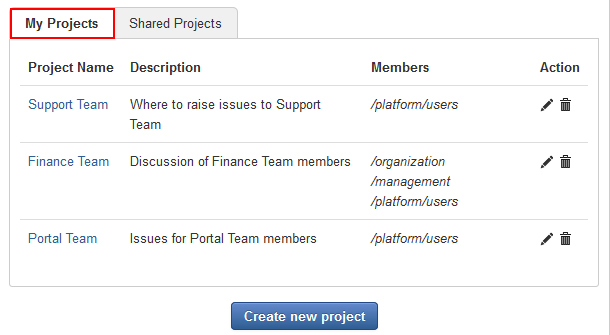
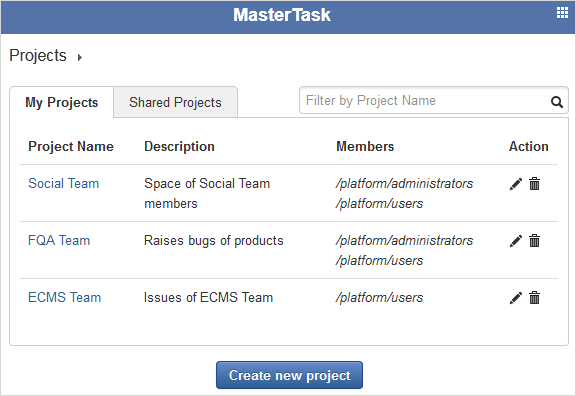
Update Readme

diff --git a/README.md b/README.md
@@ -19,7 +19,7 @@ Nguyen The Tuyen | PT
 
 # Responsive
 
-	The **MasterTask** app is based on Twitter Bootstrap to be fully responsive support.
+The **MasterTask** app is based on Twitter Bootstrap to be fully responsive support.
 
 
 # What's MasterTask?
@@ -30,7 +30,7 @@ Use this app to control projects and their relevant tasks, then share with your 
 
 # Overview of MasterTask
 
-Because of limitations to time (2 days for app development) and members (maximum 4 members) as suggested by eXo Jury, 
+Because of limitation to time (2 days for app development) and members (maximum 4 members/team) as suggested by eXo Jury, 
 our team decided to finish some main points of our app, and next will be promising features and of course a cool User Interface from BD Team. 
 See the table to know which you can play now, as well more features that will be introduced soon.
 
@@ -68,7 +68,7 @@ If you are not familiar with adding an app to a page, do as follows to access **
 
 1. Open the eXo Platform link of **4.1-M2-codefest-team_e** on Acceptance (https://acceptance.exoplatform.org/).
 
-1. Log in Intranet with the default account (username: gatein and password: gtn).
+1. Log in Intranet as admin account (for example default - username: gatein & password: gtn).
 
 1. At the top administration bar, select **Administration --> Applications**.
 
@@ -84,22 +84,24 @@ If you are not familiar with adding an app to a page, do as follows to access **
 
 1. In **Page Editor --> Applications tab**, scroll to find the name of **MasterTask** - **team-e-addon-webapp**. 
 
-1. Click **team-e-addon-webapp** to see the name of our app: **MasterTask*.
+1. Click **team-e-addon-webapp** to see the name of our app: **MasterTask**.
 
 1. Drag **MasterTask** app from Page Editor and drop it into Page Layout.
+
+	<img src="screenshots/access_mastertask.png" width="700"/>
 
 1. Click <img src="screenshots/finish_icon.png" width="20"/> to accept these changes.
 You will be redirected to the page that contains **MasterTask**. 
 In this case, it will be: http://codefest-4.1-m2-codefest-team_e.acceptance5.exoplatform.org/portal/intranet/home/page1.
 Now, you can enjoy **MasterTask**! 
 
-## Creating new project
+## Creating a new project
 
 1. Access the **MasterTask** app.
-
-A list of projects will be displayed. 
-
-If you have no project, there will be a message: *No project is available, please create one!*. 
+	<img src="screenshots/mastertask_main_screen.png" width="700"/>
+	
+	A list of projects will be displayed. 
+	If you have no project, there will be a message: *No project is available, please create one!*. 
 
 1. Click **Create new project** button at the bottom.
 
@@ -108,12 +110,11 @@ If you have no project, there will be a message: *No project is available, pleas
 1. Enter **Project name** (mandatory) and **Description** for your project.
 
 1. Share your project with a group by clicking the down-arrow icon of **Shared Groups**, then click **Add**. 
-	This means members of the shared groups can work that project in the **Shared Projects** tab.
+	This means members of the shared groups can work on that project in the **Shared Projects** tab.
 
-* Repeat this step if you want to shared with many groups.
+	* Repeat this step if you want to shared with many groups.
 	
-* Click **x** next to each group that you don't want to share anymore.
-	
+	* Click <img src="screenshots/remove_icon.png" width="15"> next to each selected group if you don't want to share with that group anymore.
 	
 1. Click **Create** button to finish.
 
@@ -123,40 +124,40 @@ To find your needed projects quickly, click either of tabs:
 
 * **My Projects**: Lists projects that are created by yourself.
 
-<img src="screenshots/my_projects.png" width="650">
+	<img src="screenshots/my_projects.png" width="650">
 	
-** Here, you can make any changes to your desires or delete your own projects.
+	* Here, you can make any changes to your desires or delete your own projects.
 	
 * **Shared Projects**: Lists projects that another shared with groups where you are member.
 
-<img src="screenshots/shared_projects.png" width="650">
+	<img src="screenshots/shared_projects.png" width="650">
 	
-Here, you can:
+	Here, you can:
 	
-** See information of shared projects, including: **Project Name**, **Description**, **Owners** and **Members**.
+	* See information of shared projects, including: **Project Name**, **Description**, **Owners** and **Members**.
 	
-** View details of shared projects, and do actions regarding to their tasks (for example, creating new, editing, or deleting, commenting).
+	* View details of shared projects, and can do actions regarding to tasks of that project (for example, creating new, editing, or deleting, commenting).
 	
-** However, you have no right to make changes or delete these shared projects.
+	* However, you have no right to make changes on information of the shared projects themselves or delete them.
 	
 ## Filtering projects
 
-After sorting your projects by either of above tabs (**My Projects**, **Shared Projects**), 
-you still find difficult to find exactly your projects because of so many. 
-In this case, you can continue filter your project from the list of selected tab as follows:
+After sorting your projects by either of above tabs (**My Projects** & **Shared Projects**), 
+you may still find difficult to find exactly your projects because of so many. 
+In this case, you can continue filter your project by name or description from the list of selected tab as follows:
 
-1. Type name into the mini filter form.
+1. Type key words into the mini filter form.
 
 	<img src="screenshots/filter_project_name.png" width="300">
 
-2. Hit **Enter** key to perform your selected filter.
+2. Hit **Enter** key or click <img src="screenshots/search_icon.png" width="15"> to perform filtering.
 
 The projects that match with your input will be listed in the selected tab.
 
-## Editing project
+## Editing a project
 
-1. In the list of projects, click <img src="screenshots/edit_icon.png" width="15">. 
-   The **Edit project** form is displayed at the bottom of the projects list.
+1. In the list of projects, click <img src="screenshots/edit_icon.png" width="15"> corresponding to the project you want to edit. 
+   The **Edit project** form with the project information is displayed at the bottom of the projects list.
    
    <img src="screenshots/edit_project.png" width="450">
 
@@ -173,54 +174,70 @@ By clicking a specific project, you will be redirected to its details as follows
 
 <img src="screenshots/project_details.png" width="650">
 	
-Here is a list of tasks of the project. 
+Here you can: 
 
-* If this project does not have any task, one message will be shown: "No task is available, please create one!".
+* See all tasks of this project. If this project does not have any task, one message will be shown: "No task is available, please create one!".
 
 * The tasks that have been resolved or unresolved or refused are displayed with a strike-through.
+
+* Perform quick actions on each specific task (setting priority, updating status, assigning to one member under the shared groups of a project) by selecting from the drop-down menu.
+	For example, to set a new priority, hover your cursor over the current level in **Priority** column, then select another from the drop-down menu.
+	
+	<img src="screenshots/quick_set_priority.png" width="650">
 
 ### Creating a new task
 
 1. Click the project to which you want to add a new task. You will be redirected to details panel of the project as above.
 
-1. Put your cursor into the Quick Add form, then type the task title and hit **Enter** key.
+1. Put your cursor into the **Quick Add** form, then type the task title and hit **Enter** key.
 
-	<img src="screenshots/quick_add_task_form.png" width="400">
+	<img src="screenshots/quick_add_task_form.png" width="300">
 
 	Your newly created task will be updated into the list of tasks at the bottom.
 
 ### Deleting a task
 	
-Simply tick the checkbox corresponding to task you want to delete, then click **Delete** button at the left bottom. You can delete multiple tasks at one time by ticking relevant checkboxes, then click **Delete** button.
+* Simply tick the checkbox corresponding to task you want to delete, then click **Delete** button at the left bottom. 
+
+* Delete multiple tasks at one time by ticking relevant checkboxes, then click **Delete** button.
+
+* Delete all tasks of the project at one time by ticking the first checkbox next to **Task**.
 	
 ### Viewing task details
 
 In the list of tasks, simply click one task you want to view. 
-Here you will see all information of the task, including: Title of task, Status, Reporter, Created time, Priority, Assignee, and Label, and a list of comments.
+Here you will see all information of the task, including: **Title of task**, **Status**, **Reporter**, **Created time**, **Priority**, **Assignee**, **Label*, and **Comments**.
+
+<img src="screenshots/task_details.png" width="650">
 
 ### Editing a task
 
-1. Open the details panel of a task.
+As stated above, some information of a task can be directly changed into the Tasks View panel, including: setting priority, updating status, and assigning.
+Besides, to make more changes, you can edit in the Details view of each task as follows:
+
+1. Click one task to open the Task Details view.
+
+	<img src="screenshots/task_details.png" width="650">
 
 1. Click <img src="screenshots/edit_task_icon.png" width="50"> to open the **Edit** form. 
 	
-	<img src="screenshots/edit_task_form.png" width="600">
+	<img src="screenshots/edit_task_form.png" width="500">
 	
 1. Add more details, or make changes on fields you like, including:
 
-* **Title**: Changes title if you like.
+	* **Title**: Changes title if you like.
 
-* **Priority**: Clicks the down arrow  to select a priority level for your task. 
-	Currently, there are 4 levels: BLOCKER, MAJOR, MINOR and UNDEFINED.If you don't set priority, the default value will be UNDEFINED.
+	* **Priority**: Clicks the down-arrow icon to select a priority level for your task. 
+	Currently, there are 4 levels: BLOCKER, MAJOR, MINOR and UNDEFINED. If you don't set priority, the default value will be UNDEFINED.
 
-* **Status**: Clicks the down arrow to update status for your task. Currently, there are 4 types: OPEN, IN PROGRESS, RESOLVED, REFUSED. 
-	OPEN is auto set for Status when you create a new task quickly.
+	* **Status**: Clicks the down-arrow icon to update status for your task. Currently, there are 4 types: OPEN, IN PROGRESS, RESOLVED, REFUSED, 
+	in which OPEN is set for Status by default.
 	
-* **Assignee**: Clicks the down arrow to assign your task to one user. 
+	* **Assignee**: Clicks the down-arrow icon to assign your task to one user. 
 	Remember that, only users who are in the **Shared Groups** of the **project** are listed in the drop-down menu. 
 	This means that you can only assign this task to one user who belongs to the group with the project has shared.
 	
-* **Label**: Adds labels to note your task, then click *Add* button or hit **Enter** key.
+	* **Label**: Adds labels to note your task, then click **Add** button or hit **Enter** key.
 	The newly created label will be updated right above the Add Label form. 
 	Click **x** next to a label to remove it.
 
@@ -233,4 +250,3 @@ Here you will see all information of the task, including: Title of task, Status,
 1. At the bottom of this view, enter your comment to the text box, then click **Comment** button.
 
 1. Click <img src="screenshots/edit_icon.png" width="20"> to edit your comment, or <img src="screenshots/delete_icon.png" width="15"> to remove it.
-
